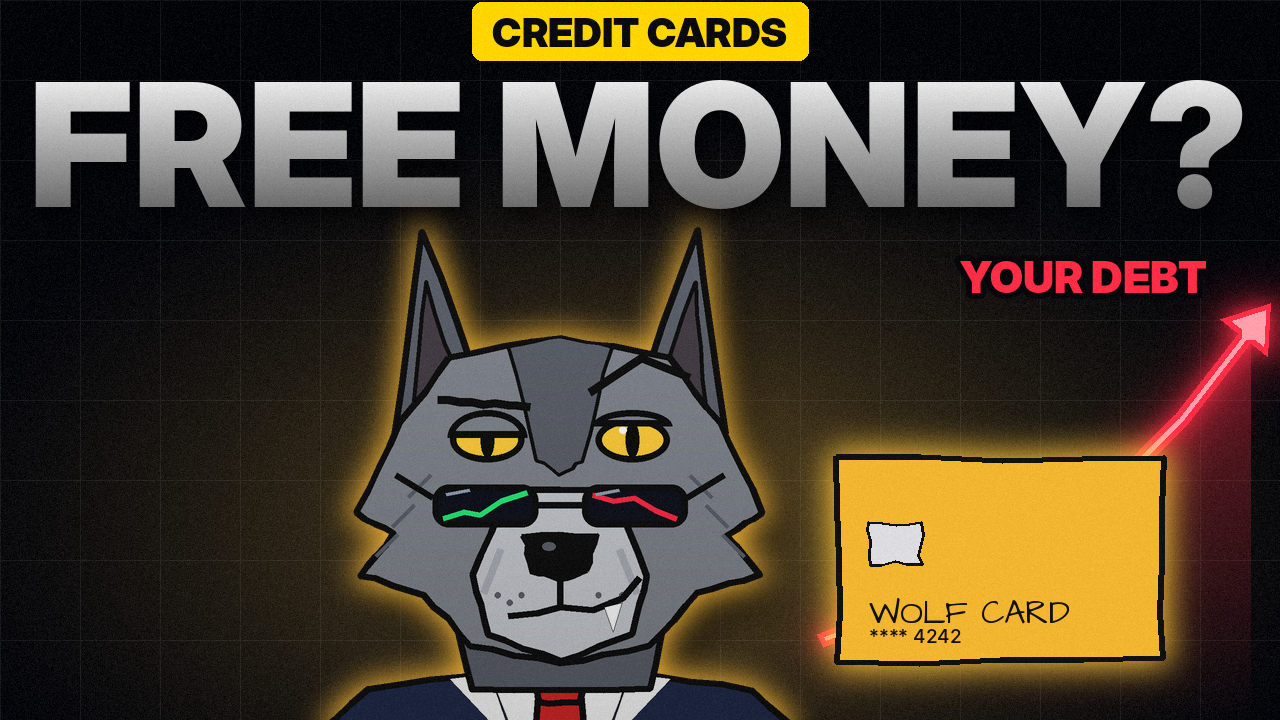
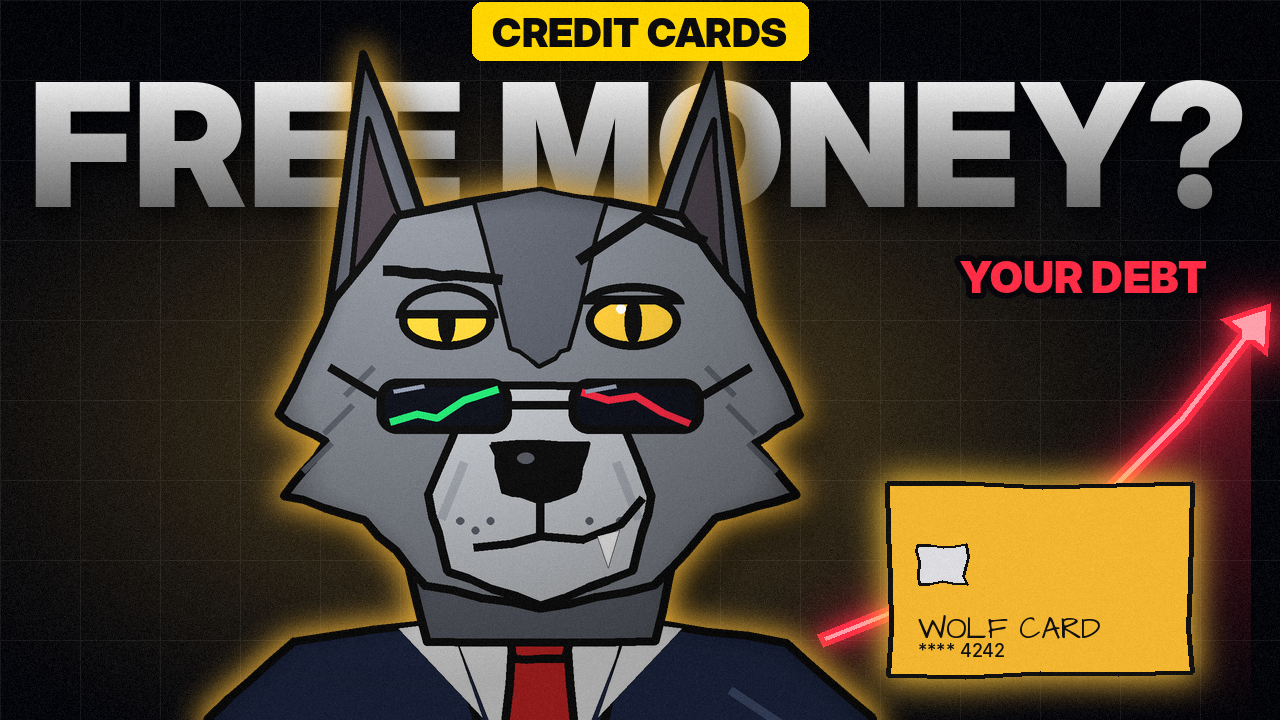
thumbs: volume lighting on hero; EP03 thumb A bigger wolf
Claude-Session: https://claude.ai/code/session_01UfLUgJczAYJw2VoQ5ySqhd

diff --git a/youtube/kit/thumbs.py b/youtube/kit/thumbs.py
@@ -73,10 +73,22 @@ def neon_chart(im, pts, col, width=16, fill=True, label=None, arrow=True):
         ImageDraw.Draw(im).text((lx, ly), txt, font=F(44), fill=col + (255,), stroke_width=6, stroke_fill=(8, 8, 12))
 
 
-def hero(im, fn, rim):
+def hero(im, fn, rim, volume=True):
+    """Герой со светящимся контуром и тенью. volume=True — объём: свет сверху-слева, затемнение к краям."""
     big = Image.new("RGBA", (Wd * 2, Hd * 2), (0, 0, 0, 0)); fn(ImageDraw.Draw(big), 2)
     lay = big.resize((Wd, Hd), Image.LANCZOS); a = lay.getchannel("A")
-    rgb = np.asarray(lay.convert("RGB"), np.float32) * np.linspace(1.1, 0.82, Hd)[:, None, None]
+    rgb = np.asarray(lay.convert("RGB"), np.float32)
+    if volume:
+        bb = a.getbbox() or (0, 0, Wd, Hd)
+        y, x = np.mgrid[0:Hd, 0:Wd].astype(np.float32)
+        lx, ly = bb[0] + (bb[2] - bb[0]) * 0.3, bb[1] + (bb[3] - bb[1]) * 0.15           # «лампа» сверху-слева
+        r = np.sqrt(((x - lx) / (bb[2] - bb[0] + 1)) ** 2 + ((y - ly) / (bb[3] - bb[1] + 1)) ** 2)
+        light = np.clip(1.28 - r * 0.75, 0.68, 1.28)
+        inner = np.asarray(a.filter(ImageFilter.GaussianBlur(22)), np.float32) / 255     # к краям темнее
+        edge = 0.72 + 0.28 * np.clip((inner - 0.35) / 0.5, 0, 1)
+        rgb = rgb * (light * edge)[..., None]
+    else:
+        rgb = rgb * np.linspace(1.1, 0.82, Hd)[:, None, None]
     sh_ = Image.fromarray(rgb.clip(0, 255).astype(np.uint8)).convert("RGBA"); sh_.putalpha(a)
     gl = Image.new("RGBA", (Wd, Hd), rim + (0,)); gl.putalpha(a.filter(ImageFilter.MaxFilter(9)).filter(ImageFilter.GaussianBlur(14)).point(lambda v: int(v * 0.9)))
     shadow = Image.new("RGBA", (Wd, Hd), (0, 0, 0, 0)); shadow.putalpha(a.filter(ImageFilter.GaussianBlur(18)).point(lambda v: int(v * 0.7)))
